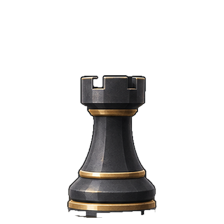
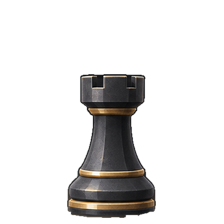
Шахматы: фигуры больше не просвечивают
Чёрные на светлом поле просвечивали насквозь: при мягком замыкании контур не
сходился в затенённых местах, фон протекал внутрь фигуры и оставался там
дырами. Заметно это только на кости — на тёмном поле дыра сливается с фоном.

Пороги края опущены, радиус замыкания расширен. Подбирал не на глаз, а по
числу просветов внутри фигуры: у ферзя их было почти четыре тысячи пикселей,
у короля больше четырёх, теперь ноль. Осталось по два-три десятка у коней и
ферзя — это просвет между гривой и телом, он там и должен быть.

Changed region(s): [[0.2812, 0.3125, 0.7188, 1.0], [0.5938, 0.625, 0.625, 0.6875]]

diff --git a/src/games/chess/scripts/cut-pieces.py b/src/games/chess/scripts/cut-pieces.py
@@ -21,9 +21,12 @@ import numpy as np
 SRC = Path(__file__).with_name("pieces-side.png")
 DEST = Path(__file__).parents[4] / "public/games/chess/pieces"
 KINDS = ["p", "r", "n", "b", "q", "k"]
-# Ряд листа, порог края и радиус замыкания. У кости контур ярче, но и разрывов
-# в нём больше — блики на боках рвут границу, и смыкать её приходится сильнее.
-BANDS = {"w": (20, 445, 11, 11), "b": (465, 845, 12, 7)}
+# Ряд листа, порог края и радиус замыкания.
+#
+# Пороги низкие, а замыкание широкое, и это подобрано по числу просветов внутри
+# фигуры: при мягком замыкании контур не сходится в затенённых местах, фон
+# протекает внутрь, и на светлом поле фигура просвечивает насквозь.
+BANDS = {"w": (20, 445, 8, 15), "b": (465, 845, 8, 15)}
 SIZE = 224
 PAD = 6
 
